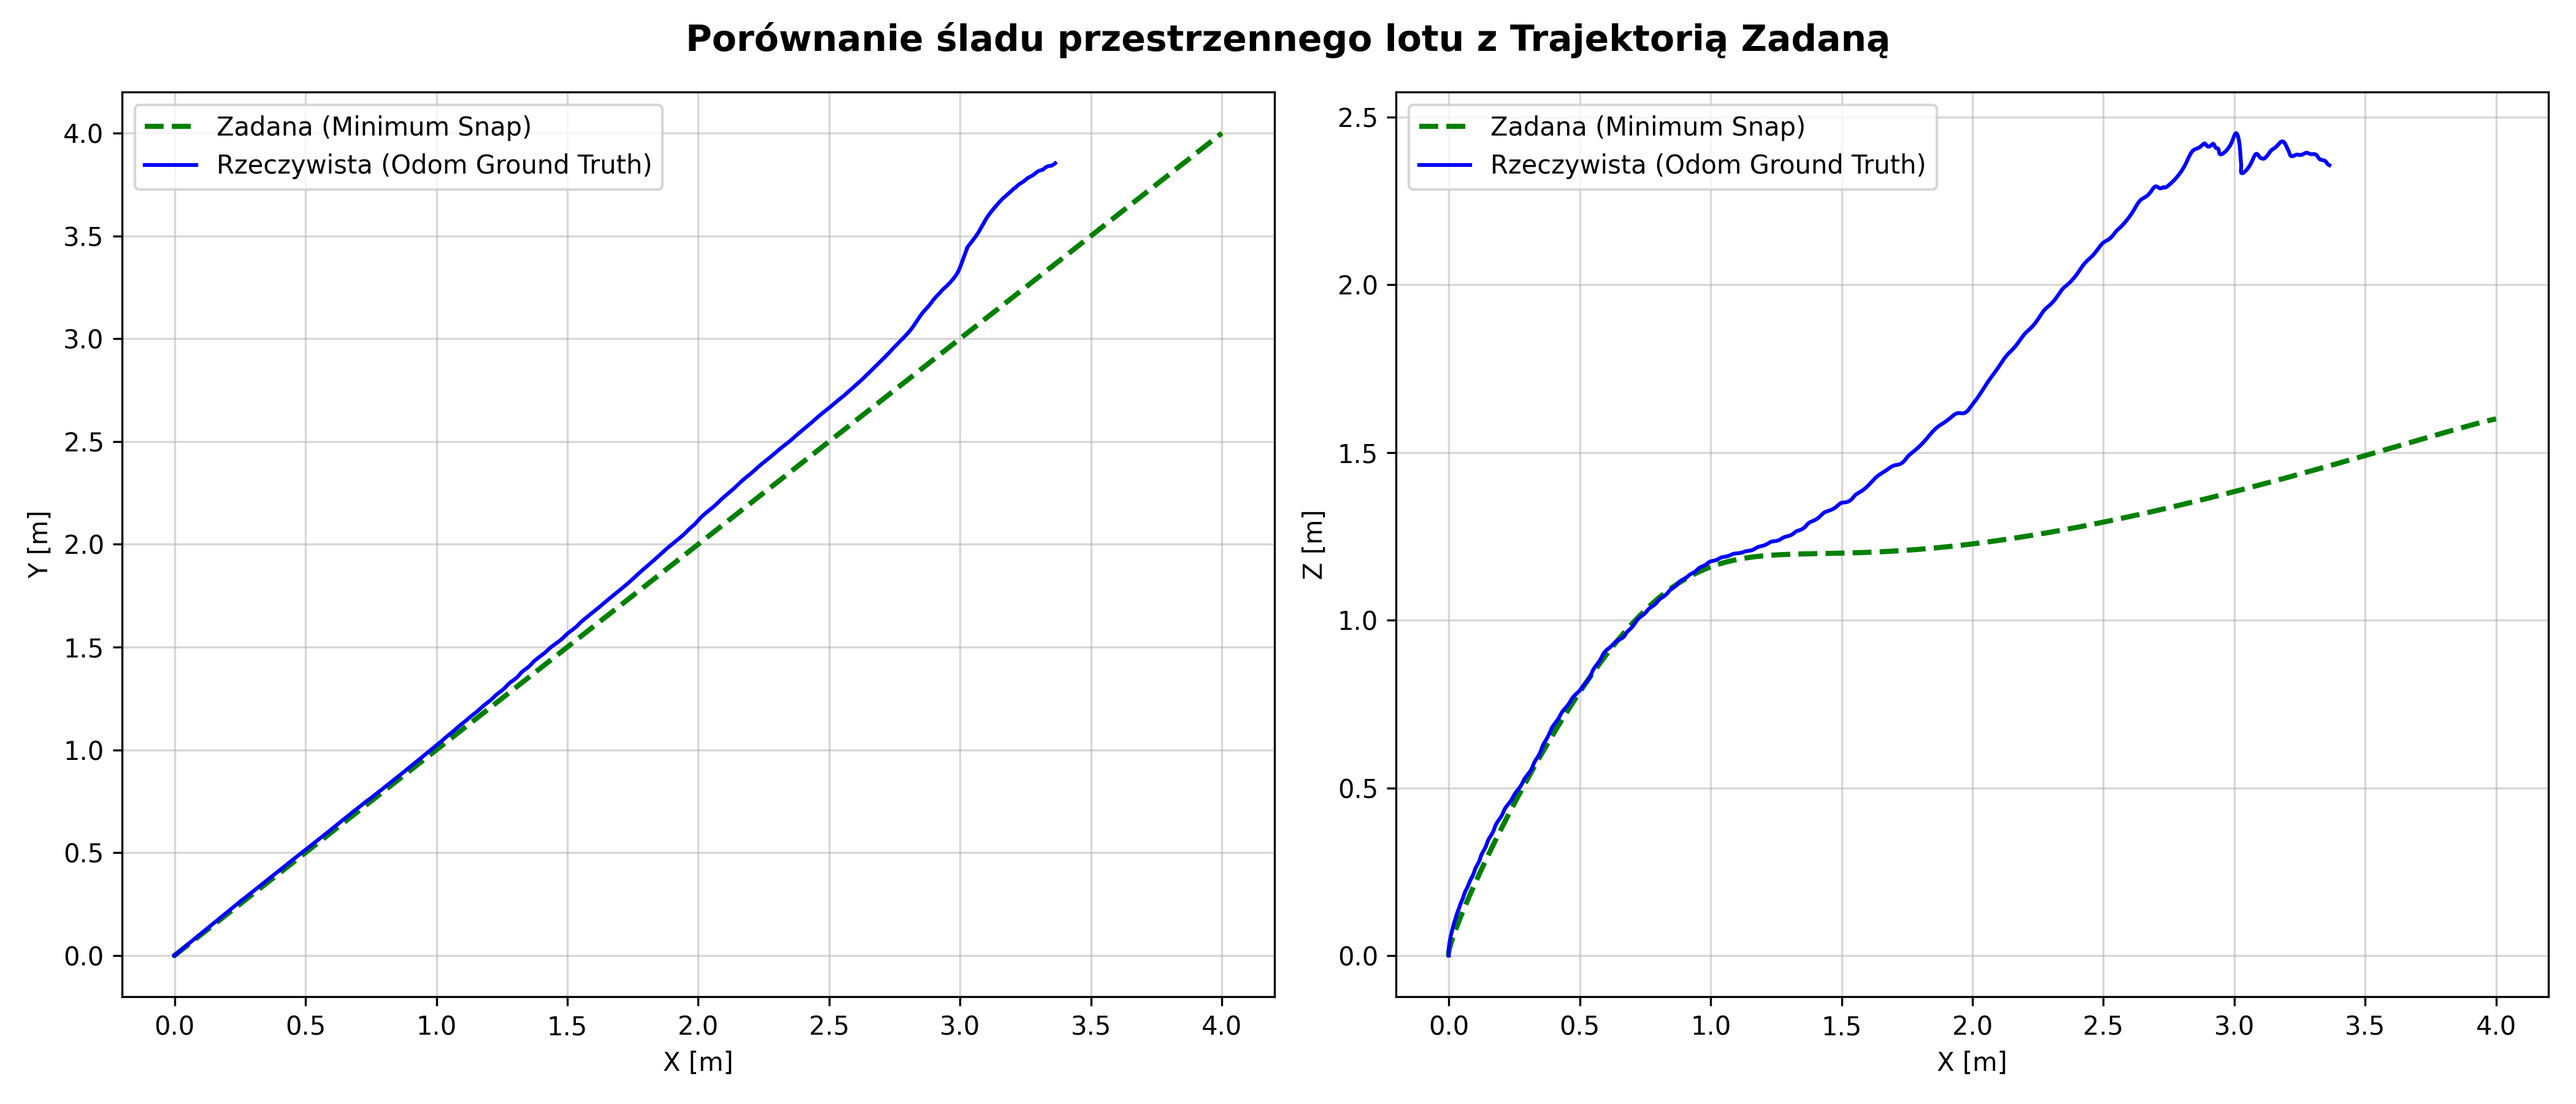
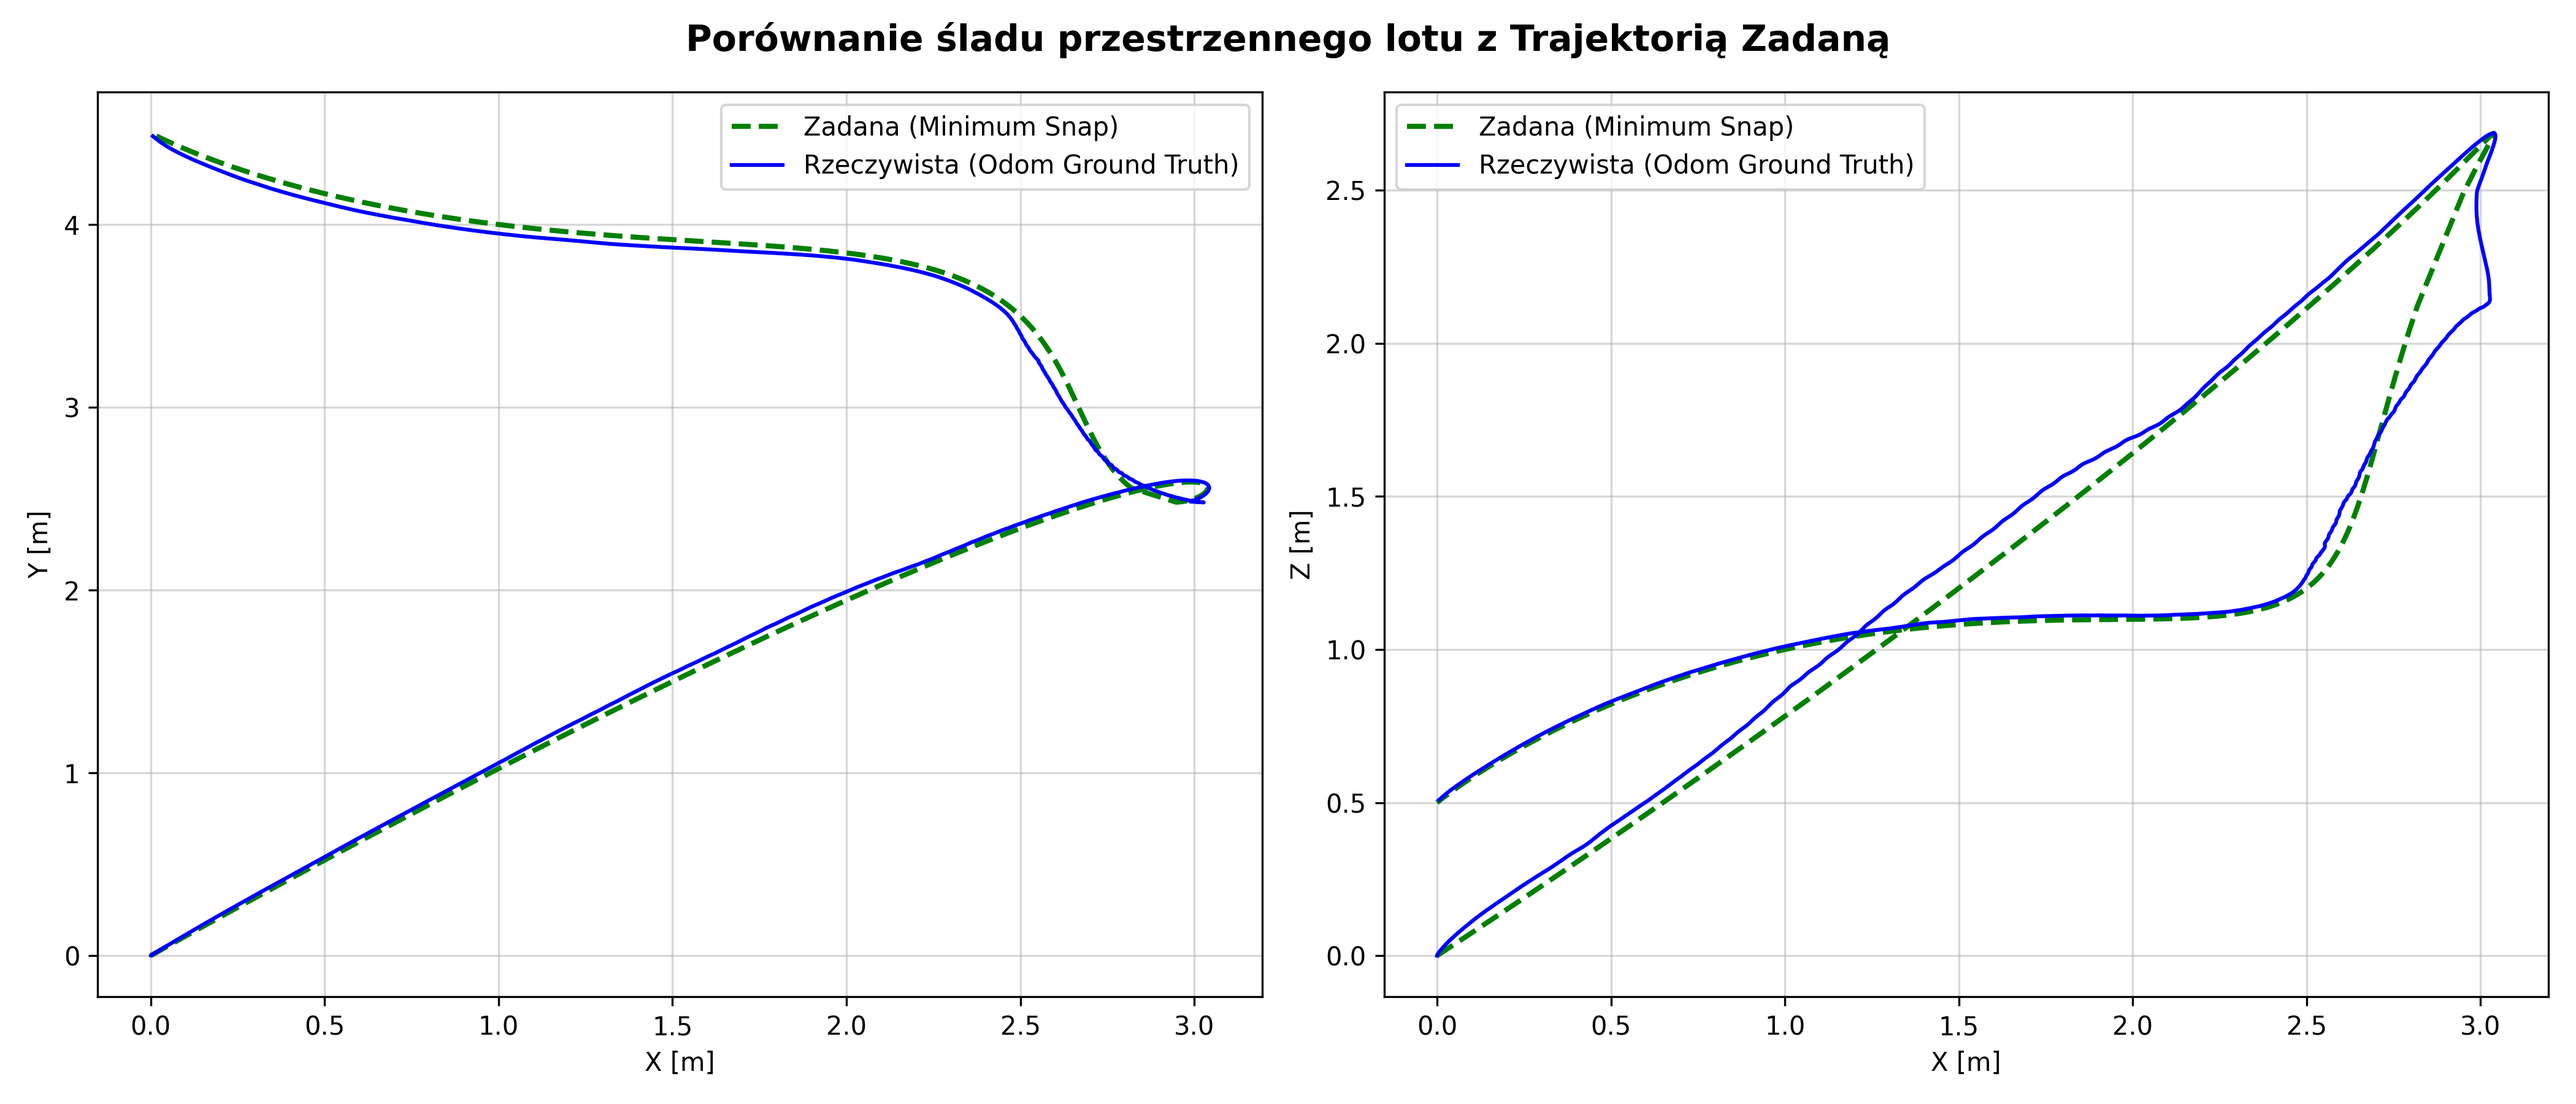
Working Mellinger controller

diff --git a/controller/controller/minimum_snap.py b/controller/controller/minimum_snap.py
@@ -7,34 +7,43 @@ class MinimumSnapGenerator:
         pass
 
     def _compute_single_segment_H(self, T):
-        """Generuje macierz kosztu Snap (8x8) dla jednego segmentu o czasie T."""
+        """Znormalizowana macierz kosztu Snap (8x8) dla jednego segmentu."""
         H = np.zeros((8, 8))
-        # Całkowanie kwadratu 4. pochodnej wielomianu 7. stopnia:
-        # p^(4)(t) = 24*c4 + 120*c5*t + 360*c6*t^2 + 840*c7*t^3
-        # Współczynniki wynikają bezpośrednio z analitycznego wyznaczenia całek wektorowych.
-        H[4, 4] = 576 * T
-        H[4, 5] = H[5, 4] = 1440 * T**2
-        H[4, 6] = H[6, 4] = 2880 * T**3
-        H[4, 7] = H[7, 4] = 5040 * T**4
+        # Obliczamy analityczne stałe dla znormalizowanego czasu tau in [0, 1] (czyli T=1.0)
+        H[4, 4] = 576
+        H[4, 5] = H[5, 4] = 1440
+        H[4, 6] = H[6, 4] = 2880
+        H[4, 7] = H[7, 4] = 5040
         
-        H[5, 5] = 4800 * T**3
-        H[5, 6] = H[6, 5] = 10800 * T**4
-        H[5, 7] = H[7, 5] = 20160 * T**5
+        H[5, 5] = 4800
+        H[5, 6] = H[6, 5] = 10800
+        H[5, 7] = H[7, 5] = 20160
         
-        H[6, 6] = 25920 * T**5
-        H[6, 7] = H[7, 6] = 50400 * T**6
+        H[6, 6] = 25920
+        H[6, 7] = H[7, 6] = 50400
         
-        H[7, 7] = 100800 * T**7
-        return H
+        H[7, 7] = 100800
+        
+        # Skalowanie macierzy - klucz do stabilności numerycznej
+        scale_factor = 1.0 / (T**7)
+        return H * scale_factor
 
-    def _generate_derivatives_vector(self, order, t):
-        """Pomocniczy wektor pochodnych dla wielomianu 7. stopnia w czasie t."""
-        if order == 0: return np.array([1.0, t, t**2, t**3, t**4, t**5, t**6, t**7])
-        if order == 1: return np.array([0.0, 1.0, 2*t, 3*t**2, 4*t**3, 5*t**4, 6*t**5, 7*t**6])
-        if order == 2: return np.array([0.0, 0.0, 2.0, 6*t, 12*t**2, 20*t**3, 30*t**4, 42*t**5])
-        if order == 3: return np.array([0.0, 0.0, 0.0, 6.0, 24*t, 60*t**2, 120*t**3, 210*t**4])
-        if order == 4: return np.array([0.0, 0.0, 0.0, 0.0, 24.0, 120*t, 360*t**2, 840*t**3])
-        return np.zeros(8)
+    def _generate_derivatives_vector(self, order, tau, T):
+        """
+        Znormalizowany wektor pochodnych.
+        tau: znormalizowany czas w [0, 1] (0.0 dla startu, 1.0 dla końca)
+        T: rzeczywisty czas trwania segmentu (do skalowania)
+        """
+        vec = np.zeros(8)
+        if order == 0: vec = np.array([1.0, tau, tau**2, tau**3, tau**4, tau**5, tau**6, tau**7])
+        elif order == 1: vec = np.array([0.0, 1.0, 2*tau, 3*tau**2, 4*tau**3, 5*tau**4, 6*tau**5, 7*tau**6])
+        elif order == 2: vec = np.array([0.0, 0.0, 2.0, 6*tau, 12*tau**2, 20*tau**3, 30*tau**4, 42*tau**5])
+        elif order == 3: vec = np.array([0.0, 0.0, 0.0, 6.0, 24*tau, 60*tau**2, 120*tau**3, 210*tau**4])
+        elif order == 4: vec = np.array([0.0, 0.0, 0.0, 0.0, 24.0, 120*tau, 360*tau**2, 840*tau**3])
+        
+        # Reguła łańcuchowa dla czasu rzeczywistego
+        scale = 1.0 / (T**order)
+        return vec * scale
 
     def generate_trajectory(self, waypoints, segment_durations):
         """
@@ -71,13 +80,13 @@ class MinimumSnapGenerator:
                 
                 # Początek segmentu i musi być w punkcie waypoints[i]
                 row_start = np.zeros(total_coefs)
-                row_start[start_idx:start_idx+8] = self._generate_derivatives_vector(0, 0.0)
+                row_start[start_idx:start_idx+8] = self._generate_derivatives_vector(0, 0.0, T)
                 A_eq.append(row_start)
                 b_eq.append(waypoints[i, axis_idx])
                 
                 # Koniec segmentu i musi być w punkcie waypoints[i+1]
                 row_end = np.zeros(total_coefs)
-                row_end[start_idx:start_idx+8] = self._generate_derivatives_vector(0, T)
+                row_end[start_idx:start_idx+8] = self._generate_derivatives_vector(0, 1.0, T)
                 A_eq.append(row_end)
                 b_eq.append(waypoints[i+1, axis_idx])
 
@@ -91,8 +100,8 @@ class MinimumSnapGenerator:
                 for order in range(1, 5):
                     row_continuity = np.zeros(total_coefs)
                     # pochodna na końcu obecnego segmentu minus pochodna na początku następnego ma dać 0
-                    row_continuity[idx_curr:idx_curr+8] = self._generate_derivatives_vector(order, T_curr)
-                    row_continuity[idx_next:idx_next+8] = -self._generate_derivatives_vector(order, 0.0)
+                    row_continuity[idx_curr:idx_curr+8] = self._generate_derivatives_vector(order, 1.0, T_curr)
+                    row_continuity[idx_next:idx_next+8] = -self._generate_derivatives_vector(order, 0.0, segment_durations[i+1])
                     A_eq.append(row_continuity)
                     b_eq.append(0.0)
 
@@ -100,7 +109,7 @@ class MinimumSnapGenerator:
             # Start (segment 0, t=0): vel=0, acc=0
             for order in [1, 2]:
                 row_bound = np.zeros(total_coefs)
-                row_bound[0:8] = self._generate_derivatives_vector(order, 0.0)
+                row_bound[0:8] = self._generate_derivatives_vector(order, 0.0, segment_durations[0])
                 A_eq.append(row_bound)
                 b_eq.append(0.0)
                 
@@ -109,7 +118,7 @@ class MinimumSnapGenerator:
             idx_last = (num_segments - 1) * num_coefs_per_segment
             for order in [1, 2]:
                 row_bound = np.zeros(total_coefs)
-                row_bound[idx_last:idx_last+8] = self._generate_derivatives_vector(order, T_last)
+                row_bound[idx_last:idx_last+8] = self._generate_derivatives_vector(order, 1.0, T_last)
                 A_eq.append(row_bound)
                 b_eq.append(0.0)
 
@@ -118,19 +127,40 @@ class MinimumSnapGenerator:
             b_eq = np.array(b_eq)
 
             # Definicja ograniczeń równościowych dla scipy.optimize
-            constraints = {'type': 'eq', 'fun': lambda c: np.dot(A_eq, c) - b_eq}
+            num_constraints = A_eq.shape[0]
+
+            # Zbudowanie macierzy KKT (lewa strona układu równań)
+            # Używamy np.block do stworzenia macierzy blokowej:
+            # [ H_global   A_eq.T ]
+            # [ A_eq       0      ]
+            KKT_left = np.block([
+                [H_global, A_eq.T],
+                [A_eq, np.zeros((num_constraints, num_constraints))]
+            ])
+
+            # Zbudowanie wektora prawej strony:
+            # [ 0    ] (rozmiaru total_coefs)
+            # [ b_eq ] (rozmiaru num_constraints)
+            KKT_right = np.concatenate([np.zeros(total_coefs), b_eq])
+
+            try:
+                # Rozwiązanie układu równań liniowych
+                solution = np.linalg.solve(KKT_left, KKT_right)
+                
+                # Wyciągnięcie tylko współczynników 'c' (pierwsze total_coefs elementów)
+                c_optimal = solution[:total_coefs]
+                
+                # Zapisanie wyników i przeformatowanie do macierzy (N, 8)
+                coefficients_output[axis_name] = c_optimal.reshape((num_segments, num_coefs_per_segment))
+                
+            except np.linalg.LinAlgError as e:
+                raise RuntimeError(f"Rozwiązanie Minimum Snap nie powiodło się dla osi {axis_name}. Macierz KKT jest osobliwa. {e}")
             
-            # Punkt startowy optymalizacji (same zera)
-            c0 = np.zeros(total_coefs)
-            
-            # Uruchomienie solvera QP
-            res = minimize(cost_function, c0, method='SLSQP', constraints=constraints, options={'maxiter': 1000})
-            
-            if not res.success:
-                raise RuntimeError(f"Optymalizacja Minimum Snap nie powiodła się dla osi {axis_name}: {res.message}")
+            # if not res.success:
+            #     raise RuntimeError(f"Optymalizacja Minimum Snap nie powiodła się dla osi {axis_name}: {res.message}")
             
             # Zapisanie wyników i przeformatowanie do macierzy (N, 8)
-            coefficients_output[axis_name] = res.x.reshape((num_segments, num_coefs_per_segment))
+            # coefficients_output[axis_name] = res.x.reshape((num_segments, num_coefs_per_segment))
 
         # Zwracamy gotowy obiekt trajektorii wielomianowej
         return PolynomialTrajectory(coefficients_output, segment_durations)

diff --git a/controller/controller/trajectory_generator.py b/controller/controller/trajectory_generator.py
@@ -38,10 +38,11 @@ class PolynomialTrajectory:
 
     def evaluate(self, t):
         """
-        Zwraca pełny stan trajektorii w czasie t, dopasowany do
-        wejścia transformacji flat_to_state oraz kontrolera Mellingera.
+        Zwraca pełny stan trajektorii w czasie t, przeliczony ze znormalizowanego czasu tau.
         """
         idx, lt = self._get_segment_index_and_local_time(t)
+        T = self.durations[idx] # Pobieramy czas trwania obecnego segmentu
+        tau = lt / T            # Czas znormalizowany tau in [0, 1]
         
         # Pobieramy współczynniki wielomianów 7. stopnia dla tego segmentu
         cx = self.coefs['x'][idx]
@@ -49,38 +50,32 @@ class PolynomialTrajectory:
         cz = self.coefs['z'][idx]
         
         # --- OBLICZENIA DLA POZYCJI X, Y, Z (Wielomian 7. stopnia) ---
-        # Przygotowujemy wektory potęg czasu lokalnego dla pozycji i kolejnych pochodnych
-        t_pos   = np.array([1.0, lt, lt**2, lt**3, lt**4, lt**5, lt**6, lt**7])
-        t_vel   = np.array([0.0, 1.0, 2*lt, 3*lt**2, 4*lt**3, 5*lt**4, 6*lt**5, 7*lt**6])
-        t_acc   = np.array([0.0, 0.0, 2.0, 6*lt, 12*lt**2, 20*lt**3, 30*lt**4, 42*lt**5])
-        t_jerk  = np.array([0.0, 0.0, 0.0, 6.0, 24*lt, 60*lt**2, 120*lt**3, 210*lt**4])
-        t_snap  = np.array([0.0, 0.0, 0.0, 0.0, 24.0, 120*lt, 360*lt**2, 840*lt**3])
+        # Używamy tau do potęg
+        t_pos  = np.array([1.0, tau, tau**2, tau**3, tau**4, tau**5, tau**6, tau**7])
+        t_vel  = np.array([0.0, 1.0, 2*tau, 3*tau**2, 4*tau**3, 5*tau**4, 6*tau**5, 7*tau**6])
+        t_acc  = np.array([0.0, 0.0, 2.0, 6*tau, 12*tau**2, 20*tau**3, 30*tau**4, 42*tau**5])
+        t_jerk = np.array([0.0, 0.0, 0.0, 6.0, 24*tau, 60*tau**2, 120*tau**3, 210*tau**4])
+        t_snap = np.array([0.0, 0.0, 0.0, 0.0, 24.0, 120*tau, 360*tau**2, 840*tau**3])
         
-        # Iloczyn skalarny (mnożenie współczynników przez potęgi czasu) daje nam wartości pochodnych
+        # Iloczyn skalarny ORAZ skalowanie wynikające z reguły łańcuchowej (1/T^k)
         pos  = np.array([np.dot(cx, t_pos),  np.dot(cy, t_pos),  np.dot(cz, t_pos)])
-        vel  = np.array([np.dot(cx, t_vel),  np.dot(cy, t_vel),  np.dot(cz, t_vel)])
-        acc  = np.array([np.dot(cx, t_acc),  np.dot(cy, t_acc),  np.dot(cz, t_acc)])
-        jerk = np.array([np.dot(cx, t_jerk), np.dot(cy, t_jerk), np.dot(cz, t_jerk)])
-        snap = np.array([np.dot(cx, t_snap), np.dot(cy, t_snap), np.dot(cz, t_snap)])
+        vel  = np.array([np.dot(cx, t_vel),  np.dot(cy, t_vel),  np.dot(cz, t_vel)])  * (1.0 / T)
+        acc  = np.array([np.dot(cx, t_acc),  np.dot(cy, t_acc),  np.dot(cz, t_acc)])  * (1.0 / T**2)
+        jerk = np.array([np.dot(cx, t_jerk), np.dot(cy, t_jerk), np.dot(cz, t_jerk)]) * (1.0 / T**3)
+        snap = np.array([np.dot(cx, t_snap), np.dot(cy, t_snap), np.dot(cz, t_snap)]) * (1.0 / T**4)
 
-        # --- OBLICZENIA DLA YAW (Wielomian 3. stopnia) ---
+        # --- OBLICZENIA DLA YAW ---
+        # Jeśli yaw jest w czasie znormalizowanym, traktujemy je analogicznie
         cyaw = self.yaw_coefs[idx]
-        t_yaw      = np.array([1.0, lt, lt**2, lt**3])
-        t_yaw_dot  = np.array([0.0, 1.0, 2*lt, 3*lt**2])
-        t_yaw_ddot = np.array([0.0, 0.0, 2.0, 6*lt])
+        t_yaw      = np.array([1.0, tau, tau**2, tau**3])
+        t_yaw_dot  = np.array([0.0, 1.0, 2*tau, 3*tau**2])
+        t_yaw_ddot = np.array([0.0, 0.0, 2.0, 6*tau])
         
         yaw      = np.dot(cyaw, t_yaw)
-        yaw_rate = np.dot(cyaw, t_yaw_dot)
-        yaw_acc  = np.dot(cyaw, t_yaw_ddot)
+        yaw_rate = np.dot(cyaw, t_yaw_dot) * (1.0 / T)
+        yaw_acc  = np.dot(cyaw, t_yaw_ddot) * (1.0 / T**2)
 
-        # Zwracamy spakowany stan gotowy do przekazania do calculate_state_from_flat_inputs
         return {
-            'pos': pos,
-            'vel': vel,
-            'acc': acc,
-            'jerk': jerk,
-            'snap': snap,
-            'yaw': yaw,
-            'yaw_rate': yaw_rate,
-            'yaw_acc': yaw_acc
+            'pos': pos, 'vel': vel, 'acc': acc, 'jerk': jerk, 'snap': snap,
+            'yaw': yaw, 'yaw_rate': yaw_rate, 'yaw_acc': yaw_acc
         }

diff --git a/controller/controller/controller_node.py b/controller/controller/controller_node.py
@@ -147,15 +147,16 @@ class ControllerNode(Node):
         waypoints = np.array([
             start_pos,                          # Punkt 0: Start z ziemi/zawisu
             [1.5, 1.5, 1.2],       # Punkt 1: Płynne wzniesienie na 1.2 metra
-            [4.0, 4.0, 1.6],           # Punkt 2: Lot 1 metr w przód (oś X)
-            # [2.5, 1.5, 1.2],                    # Punkt 3: Lot 1 metr w bok (oś Y)
-            # [3.0, 1.5, 1.2]   # Punkt 4: Powrót nad punkt startowy
+            [3.0, 2.5, 2.6],           # Punkt 2: Lot 1 metr w przód (oś X)
+            [2.5, 3.5, 1.2],                    # Punkt 3: Lot 1 metr w bok (oś Y)
+            [1.0, 4.0, 1.0],   # Punkt 4: Powrót nad punkt startowy
+            [0.0, 4.5, 0.5],   # Punkt 5: Lądowanie (pozycja niższa niż start)
         ])
 
         # --- CZASY DLA KAŻDEGO SEGMENTU (w sekundach) ---
         # Dajemy dronowi sporo czasu (3 sekundy na odcinek 1-metrowy), 
         # aby ruch był spokojny i łatwy do zaobserwowania w symulatorze.
-        segment_durations = [10, 8]
+        segment_durations = [10, 12, 13, 12, 14]
 
         total_traj_time = sum(segment_durations)
         self.get_logger().info(f"Całkowity czas prostej trajektorii: {total_traj_time:.2f} sekund.")
